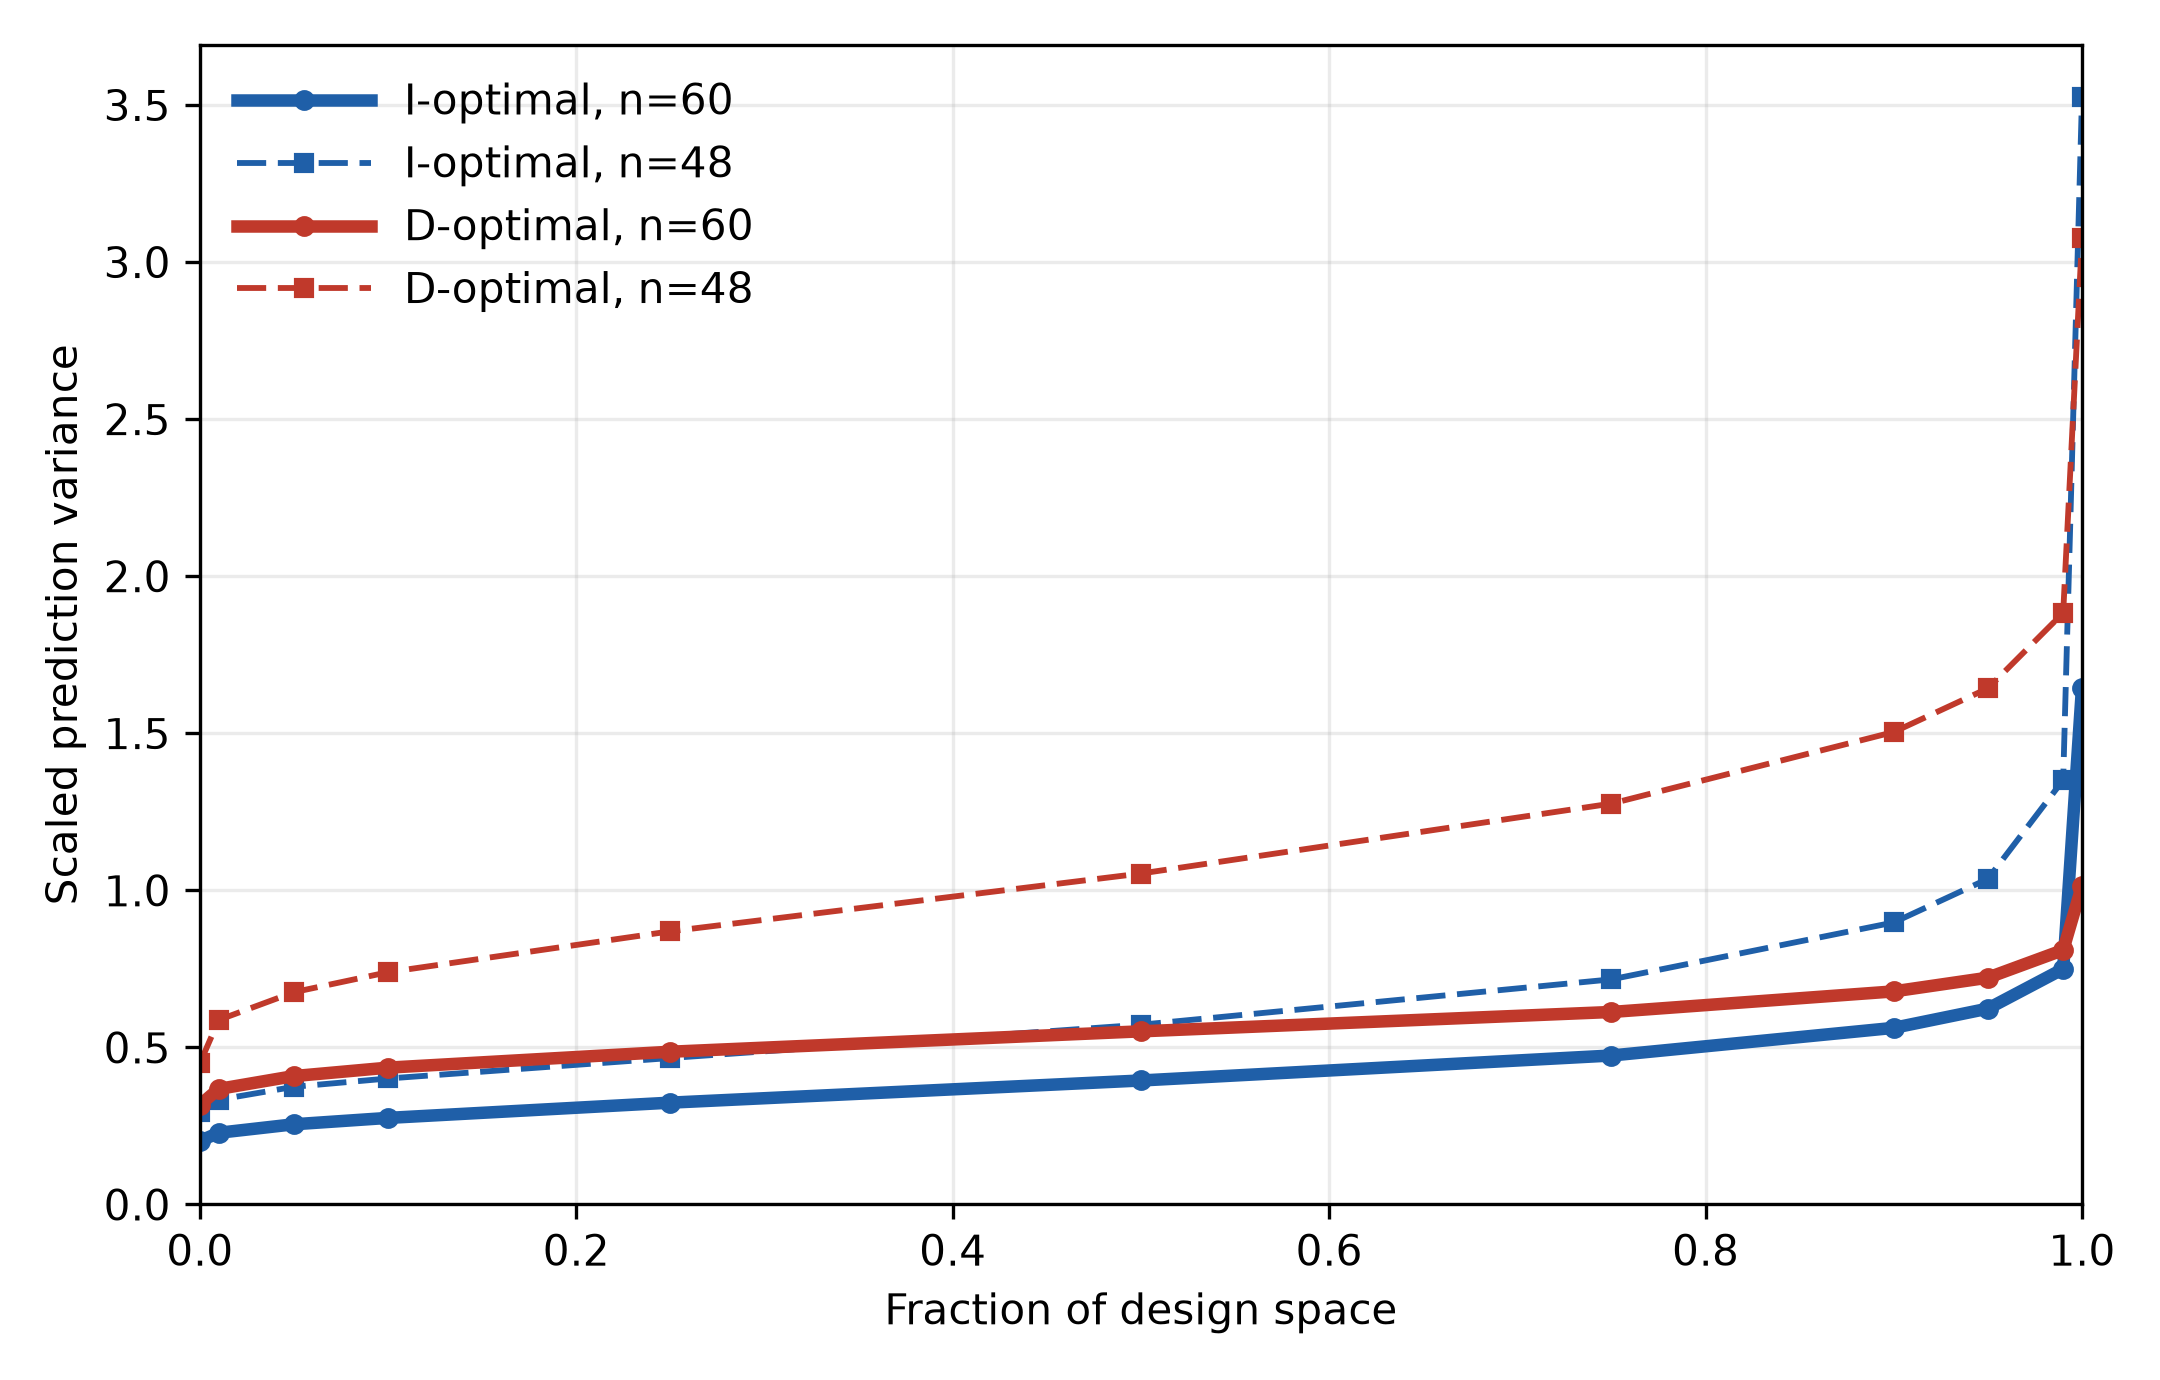
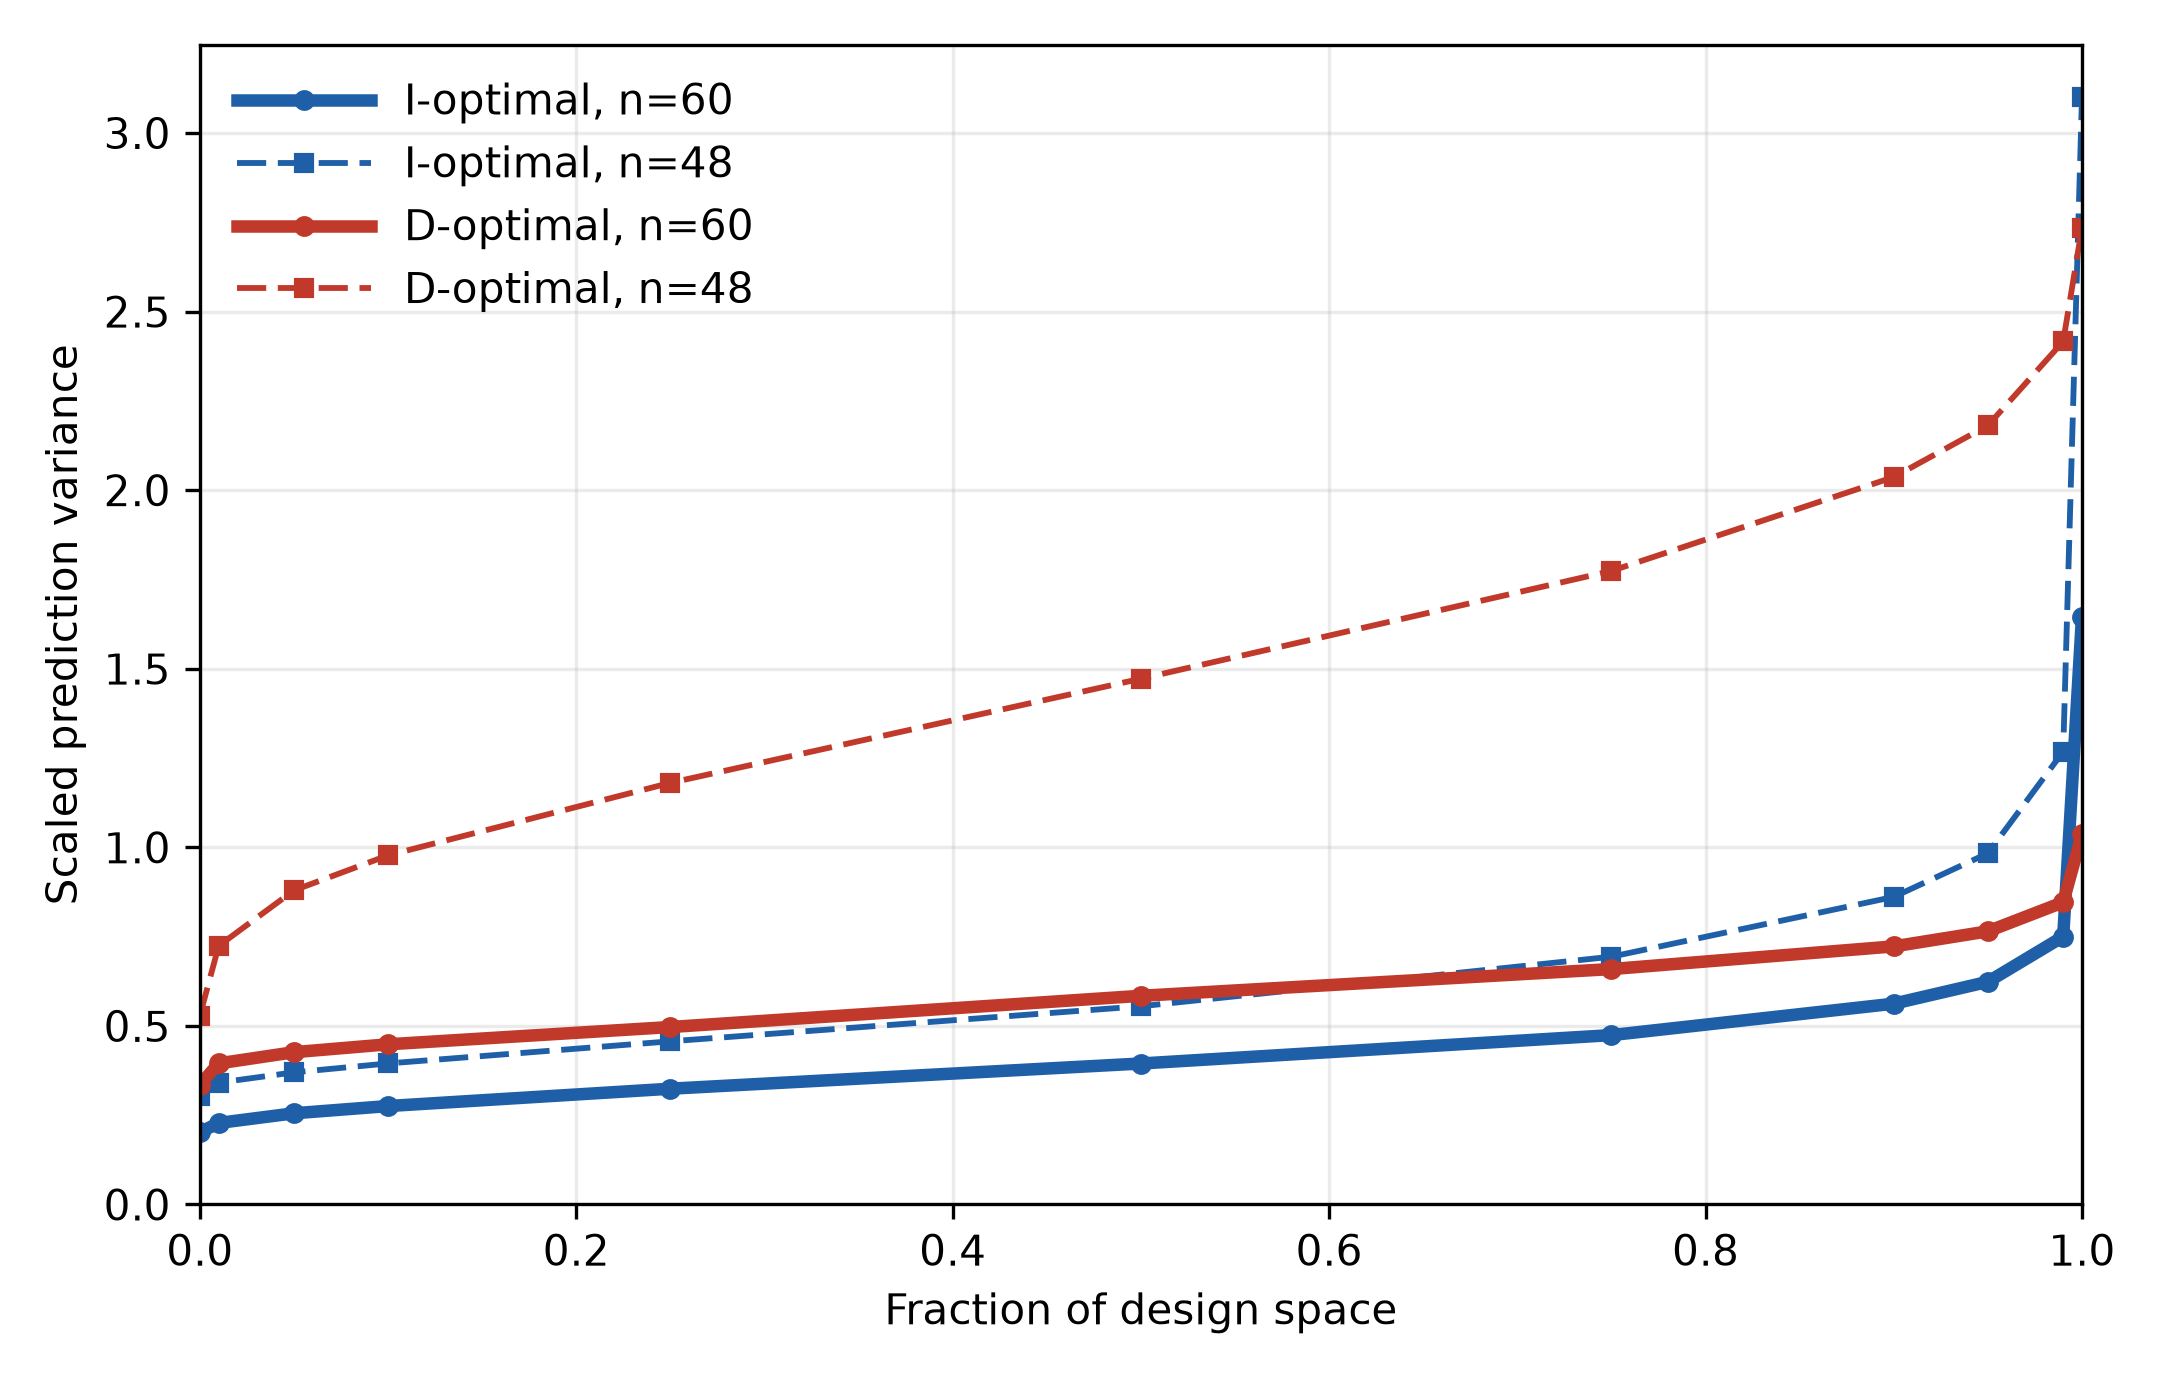
Regenerate the colour FDS curves on process-improve 2.3.0
process-improve 2.3.0 carries the split-plot fix (kgdunn/process-improve#948).
The 48-run designs and the 60-run D-optimal design no longer depend on the
BLAS kernel, and they are different designs from the ones 2.1.0 built on an
AVX-512 machine. Redraw colour-fds-curves.png from 2.3.0 in a clean
environment, with MATPLOTLIBRC unset so the font is DejaVu Sans.

The 60-run I-optimal design is unchanged, so the other colour figures are
not redrawn: on 2.3.0 they come out pixel-identical, apart from 83 pixels
that differ by one intensity level in the interaction score plot.

Claude-Session: https://claude.ai/code/session_01S4nNrQrezZa8Wt3JVywWoM

diff --git a/doe/colour_case_study.py b/doe/colour_case_study.py
@@ -11,8 +11,8 @@ split-plot mixed-level optimal design.
 Everything here is built with Kevin Dunn's ``process_improve`` library
 (``pip install process-improve``; no other optimiser is needed): ``generate_design`` builds the
 mixed-level split-plot optimal design directly with its own coordinate exchange (v1.52.0+ routes
-a categorical factor and a per-factor quadratic model through the public entry point; the design
-the chapter prints is the one v2.1.0 returns), ``evaluate_design`` scores D- and G-efficiency, the
+a categorical factor and a per-factor quadratic model through the public entry point; the designs
+the chapter prints are the ones v2.3.0 returns), ``evaluate_design`` scores D- and G-efficiency, the
 average prediction variance, and its distribution over the whole region (the FDS curve), and the
 multivariate ``PLS`` models the ten-point colour-development profile with ``scale=True``
 (v1.51.3+ scales both blocks; v1.51.4+ reports ``rmse_`` on the original response scale).
